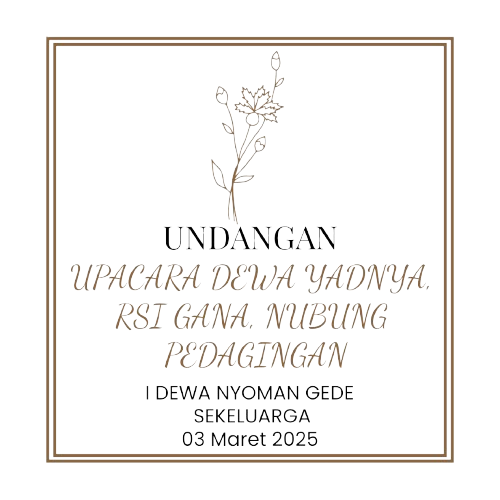
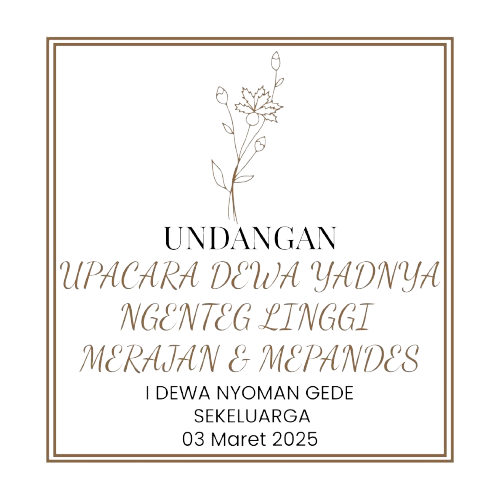
FINISH

Changed region(s): [[0.12, 0.51, 0.9, 0.75]]

diff --git a/src/app/components/ucapan.jsx b/src/app/components/ucapan.jsx
@@ -1,69 +1,125 @@
 "use client";
-import React, { useState } from 'react';
+import React, { useState, useEffect } from 'react';
+import { FaCheckCircle, FaCheckDouble, FaTimesCircle, FaTrash } from 'react-icons/fa';
 
-const ucapan = () => {
+const Ucapan = () => {
   const [nama, setNama] = useState('');
   const [ucapan, setUcapan] = useState('');
   const [kehadiran, setKehadiran] = useState('Hadir');
   const [daftarUcapan, setDaftarUcapan] = useState([]);
+  const [isLoading, setIsLoading] = useState(false);
 
-  const handleSubmit = (e) => {
+  useEffect(() => {
+    const fetchUcapan = async () => {
+      try {
+        const response = await fetch('/api/ucapan');
+        console.log("Response Status:", response.status); // Lihat status kode response
+        console.log("Response Headers:", response.headers);
+        const responseText = await response.text(); // Ambil isi response
+        console.log("Response Body:", responseText); // Lihat isi response
+  
+        if (!response.ok) {
+          throw new Error("Gagal mengambil data");
+        }
+  
+        const data = JSON.parse(responseText); // Konversi ke JSON
+        setDaftarUcapan(data);
+      } catch (error) {
+        console.error("Error:", error.message);
+      }
+    };
+  
+    fetchUcapan();
+  }, []);
+  
+
+  const handleSubmit = async (e) => {
     e.preventDefault();
 
     if (nama.trim() !== "" && ucapan.trim() !== "") {
-      setDaftarUcapan([
-        ...daftarUcapan,
-        { nama, ucapan, kehadiran },
-      ]);
-      setNama('');
-      setUcapan('');
-      setKehadiran('Hadir');
+      const newUcapan = { nama, ucapan, kehadiran };
+
+      setIsLoading(true);
+
+      try {
+        const response = await fetch('/api/ucapan', {
+          method: 'POST',
+          headers: {
+            'Content-Type': 'application/json',
+          },
+          body: JSON.stringify(newUcapan),
+        });
+
+        if (!response.ok) {
+          const errorData = await response.json();
+          throw new Error(errorData.error || 'Gagal mengirim data. Status: ' + response.status);
+        }
+
+        const data = await response.json();
+        setDaftarUcapan([...daftarUcapan, data]);
+
+        setNama('');
+        setUcapan('');
+        setKehadiran('Hadir');
+      } catch (error) {
+        console.error('Terjadi kesalahan saat mengirim data:', error);
+        alert(error.message);
+      } finally {
+        setIsLoading(false);
+      }
     } else {
       alert("Nama dan ucapan tidak boleh kosong!");
     }
   };
 
+  const handleDelete = async (id) => {
+    setIsLoading(true);
+    try {
+      const response = await fetch(`/api/ucapan/${id}`, {
+        method: 'DELETE',
+      });
+
+      if (!response.ok) {
+        const errorData = await response.json();
+        throw new Error(errorData.error || "Gagal menghapus data");
+      }
+
+      setDaftarUcapan(daftarUcapan.filter(item => item.id !== id));
+      alert("Ucapan berhasil dihapus!");
+    } catch (error) {
+      console.error("Terjadi kesalahan saat menghapus data:", error);
+      alert(error.message);
+    } finally {
+      setIsLoading(false);
+    }
+  };
+
+
   const renderStatus = (kehadiran) => {
-    if (kehadiran === 'Hadir') {
-      return (
-        <span className="text-yellow-500 mr-2">
-          <svg
-            xmlns="http://www.w3.org/2000/svg"
-            className="h-6 w-6 inline-block"
-            fill="none"
-            viewBox="0 0 24 24"
-            stroke="currentColor"
-          >
-            <path
-              strokeLinecap="round"
-              strokeLinejoin="round"
-              strokeWidth={2}
-              d="M9 12l2 2 4-4m6 8a10 10 0 11-20 0 10 10 0 0120 0z"
-            />
-          </svg>
-          Hadir
-        </span>
-      );
-    } else {
-      return (
-        <span className="text-gray-500 mr-2">
-          <svg
-            xmlns="http://www.w3.org/2000/svg"
-            className="h-6 w-6 inline-block"
-            fill="none"
-            viewBox="0 0 24 24"
-            stroke="currentColor"
-          >
-            <path
-              strokeLinecap="round"
-              strokeLinejoin="round"
-              strokeWidth={2}
-              d="M10 19h4a5 5 0 005-5V6a5 5 0 00-5-5H6a5 5 0 00-5 5v8a5 5 0 005 5z"
-            />
-          </svg>
-          {kehadiran}
-        </span>
-      );
+    switch (kehadiran) {
+      case 'Hadir':
+        return (
+          <span className="text-green-500 mr-2 flex items-center">
+            <FaCheckCircle className="h-5 w-5 mr-1" />
+            Hadir
+          </span>
+        );
+      case 'Akan Hadir':
+        return (
+          <span className="text-yellow-500 mr-2 flex items-center">
+            <FaCheckDouble className="h-5 w-5 mr-1" />
+            Akan Hadir
+          </span>
+        );
+      case 'Tidak Hadir':
+        return (
+          <span className="text-gray-500 mr-2 flex items-center">
+            <FaTimesCircle className="h-5 w-5 mr-1" />
+            Tidak Hadir
+          </span>
+        );
+      default:
+        return null;
     }
   };
 
@@ -124,26 +180,32 @@ const ucapan = () => {
             </select>
           </div>
 
-          <button
-            type="submit"
-            className="bg-green-500 hover:bg-green-700 text-white font-bold py-2 px-4 rounded focus:outline-none focus:shadow-outline"
-          >
-            Kirimkan Ucapan
+          <button type="submit" disabled={isLoading} className="bg-green-500 hover:bg-green-700 text-white font-bold py-2 px-4 rounded focus:outline-none focus:shadow-outline">
+            {isLoading ? 'Mengirim...' : 'Kirimkan Ucapan'}
           </button>
         </form>
 
         <div className="border rounded p-4">
-          {daftarUcapan.map((item, index) => (
-            <div key={index} className="mb-2 p-2 border rounded flex items-center">
-              <strong className="font-bold mr-2">{item.nama}:</strong>
-              {renderStatus(item.kehadiran)}
-              <div>{item.ucapan}</div>
-            </div>
-          ))}
+          {daftarUcapan.length > 0 ? (
+            daftarUcapan.map((item) => (
+              <div key={item.id} className="mb-2 p-2 border rounded flex items-center justify-between">
+                <div className="flex items-center">
+                  <strong className="font-bold mr-2 text-black">{item.nama}:</strong>
+                  {renderStatus(item.kehadiran)}
+                  <div className='text-black ml-2'>{item.ucapan}</div> {/* Pindahkan ucapan ke sini */}
+                </div>
+                <button onClick={() => handleDelete(item.id)} className="text-red-500">
+                  <FaTrash className="h-5 w-5" />
+                </button>
+              </div>
+            ))
+          ) : (
+            <p className="text-gray-500">Belum ada ucapan.</p>
+          )}
         </div>
       </div>
     </div>
   );
 };
 
-export default ucapan;
+export default Ucapan;

diff --git a/src/app/components/head.jsx b/src/app/components/head.jsx
@@ -40,6 +40,13 @@ const Head = () => {
     return () => window.removeEventListener('resize', handleResize);
   }, []);
 
+  const scrollToLokasi = () => {
+    const lokasiElement = document.getElementById('date'); 
+    if (lokasiElement) {
+      lokasiElement.scrollIntoView({ behavior: 'smooth' }); 
+    }
+  };
+
   return (
     <div className="bg-[#F8F6F0] flex flex-col items-center overflow-y-auto p-4 min-h-screen">
       <div className="w-full flex justify-center">
@@ -62,7 +69,10 @@ const Head = () => {
         />
       </div>
 
-      <button className="bg-[#B99769] hover:bg-[#533f23] text-white font-bold my-8 py-2 px-4 rounded focus:outline-none focus:shadow-outline">
+      <button
+        className="bg-[#B99769] hover:bg-[#533f23] text-white font-bold my-8 py-2 px-4 rounded focus:outline-none focus:shadow-outline"
+        onClick={scrollToLokasi} 
+      >
         Save the Date
       </button>
 
@@ -79,7 +89,7 @@ const Head = () => {
       <h2 className="mx-auto text-center great-vibes-regular text-4xl sm:text-5xl md:text-6xl lg:text-7xl text-black font-bold leading-tight">Om Swastiastu</h2>
       <div className="flex items-center justify-center my-12 max-w-[90%] md:max-w-[70rem]">
         <p className="mx-auto text-center text-base sm:text-lg md:text-xl lg:text-2xl text-black leading-relaxed">
-          Atas Asung Kertha Wara Nugraha Ida Sang Hyang Widhi Wasa/Tuhan Yang Maha Esa, perkenankan kami mengundang Bapak/Ibu/Saudara/i, pada Upacara Dewa Yadnya Melaspas Merajan keluarga kami. Yang akan dilaksanakan pada :
+          Atas Asung Kertha Wara Nugraha Ida Sang Hyang Widhi Wasa/Tuhan Yang Maha Esa, perkenankan kami mengundang Bapak/Ibu/Saudara/i, pada Upacara Dewa Yadnya Rsi Gana & Nubug Pedagingan Merajan dan Mepandes putra-putri kami. Yang akan dilaksanakan pada :
         </p>
       </div>
     </div>

diff --git a/src/app/components/date.jsx b/src/app/components/date.jsx
@@ -42,6 +42,7 @@ const Date = () => {
 
   return (
     <div
+    id='date'
       className="p-4 bg-cover bg-center min-h-screen"
       style={{
         backgroundImage: "url('/img/bg1.png')",
@@ -64,7 +65,7 @@ const Date = () => {
 
         <div className="flex justify-center items-center mt-8 mb-8">
           <div className="flex flex-col items-center w-12 sm:w-16 md:w-20">
-            <span className="text-2xl sm:text-3xl text-black font-semibold">04</span>
+            <span className="text-2xl sm:text-3xl text-black font-semibold">03</span>
             <div className="border-t border-gray-600 w-full"></div>
           </div>
           <div className="text-lg sm:text-xl md:text-2xl mx-2 w-12 sm:w-16 md:w-20">
@@ -79,7 +80,7 @@ const Date = () => {
         <h2 className="font-medium text-3xl sm:text-4xl md:text-5xl text-[#323332] leading-tight">
           Selasa,
           <br />
-          <span className="text-3xl sm:text-4xl md:text-5xl">04 Maret 2025</span>
+          <span className="text-3xl sm:text-4xl md:text-5xl">03 Maret 2025</span>
         </h2>
 
         <div className="mt-4">

diff --git a/src/app/components/time.jsx b/src/app/components/time.jsx
@@ -3,11 +3,11 @@ import Image from "next/image";
 import React, { useEffect, useState } from "react";
 
 const Time = () => {
-  const [timeLeft, setTimeLeft] = useState({}); // Inisialisasi dengan objek kosong
+  const [timeLeft, setTimeLeft] = useState({});
   const [windowWidth, setWindowWidth] = useState(0);
 
   useEffect(() => {
-    const targetDate = new Date(new Date().getFullYear(), 2, 4).getTime();
+    const targetDate = new Date(new Date().getFullYear(), 2, 3).getTime(); // Ubah tanggal di sini
 
     function calculateTimeLeft() {
       const now = new Date().getTime();
@@ -39,10 +39,10 @@ const Time = () => {
       setWindowWidth(window.innerWidth);
     }
 
-    window.addEventListener('resize', handleResize);
+    window.addEventListener("resize", handleResize);
     handleResize();
 
-    return () => window.removeEventListener('resize', handleResize);
+    return () => window.removeEventListener("resize", handleResize);
   }, []);
 
   const imageSize = (width) => {

diff --git a/src/app/api/ucapan/route.js b/src/app/api/ucapan/route.js
@@ -1,0 +1,16 @@
+import { PrismaClient } from '@prisma/client';
+
+const prisma = new PrismaClient();
+
+export const GET = async () => {
+  try {
+    console.log("Fetching data from Prisma...");
+    const ucapan = await prisma.ucapan.findMany();
+    console.log("Data fetched:", ucapan);
+
+    return Response.json(ucapan, { status: 200 });
+  } catch (error) {
+    console.error("Error fetching ucapan:", error);
+    return Response.json({ error: "Gagal mengambil data ucapan." }, { status: 500 });
+  }
+};
